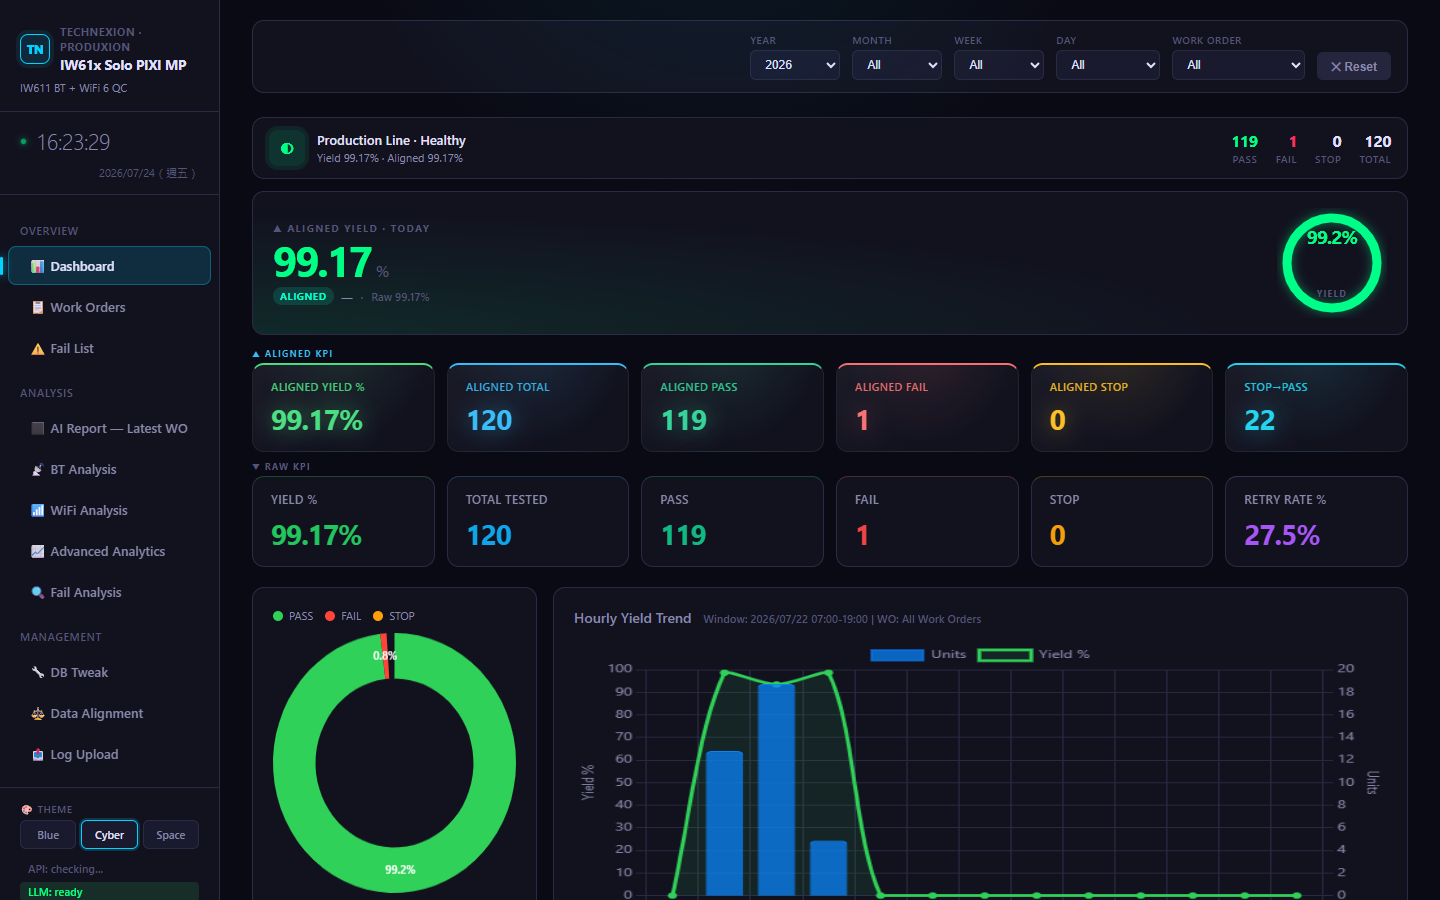
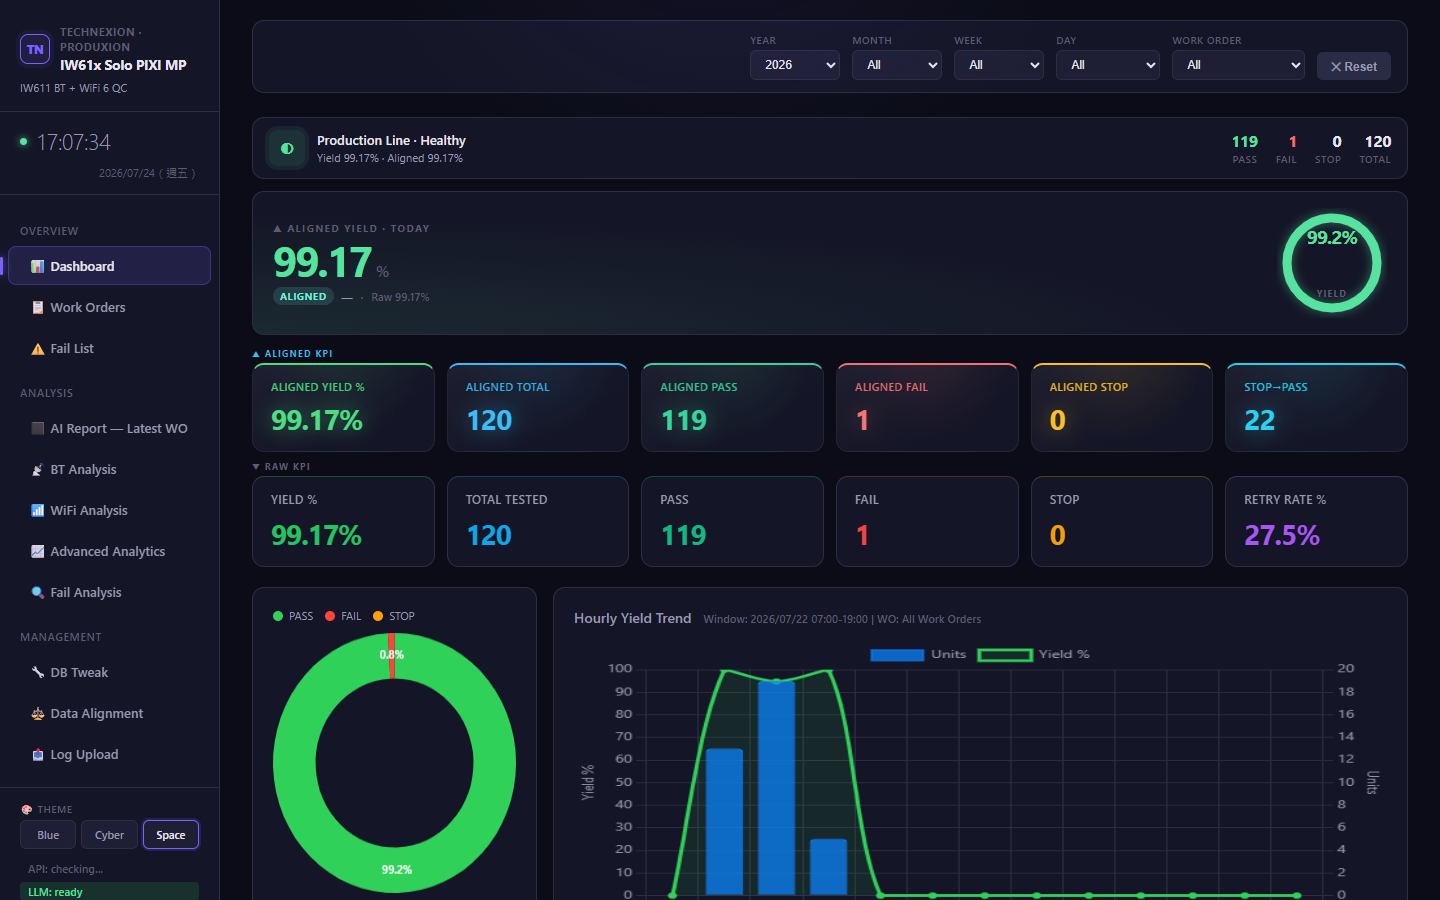
fix: make desktop uploader honor selected database
Initialize the schema through the GUI-selected PostgreSQL URL so first-time uploads to a fresh database succeed. Add desktop dependencies, regression coverage, and refreshed acceptance evidence.

diff --git a/iw-solo-pixi-essential/log_iw_uploader_app.py b/iw-solo-pixi-essential/log_iw_uploader_app.py
@@ -1,6 +1,5 @@
 from __future__ import annotations
 
-import os
 import sys
 from pathlib import Path
 
@@ -47,10 +46,8 @@ class UploadWorker(QThread):
         self.work_order = work_order or None
 
     def run(self):
-        old_url = os.environ.get("DATABASE_URL")
-        os.environ["DATABASE_URL"] = self.db_url
         try:
-            init_schema()
+            init_schema(self.db_url)
             conn = psycopg2.connect(self.db_url)
             try:
                 report = ingest_paths(self.paths, PostgresRunRepository(conn), self.work_order, source="gui")
@@ -60,11 +57,6 @@ class UploadWorker(QThread):
                 conn.close()
         except Exception as exc:
             self.failed.emit(str(exc))
-        finally:
-            if old_url is None:
-                os.environ.pop("DATABASE_URL", None)
-            else:
-                os.environ["DATABASE_URL"] = old_url
 
 
 class UploaderWindow(QMainWindow):

diff --git a/iw-solo-pixi-essential/tests/test_database_configuration.py b/iw-solo-pixi-essential/tests/test_database_configuration.py
@@ -1,0 +1,26 @@
+import sys
+import unittest
+from unittest.mock import MagicMock, patch
+
+sys.modules.setdefault("psycopg2", MagicMock())
+
+from api import db
+
+
+class DatabaseConfigurationTests(unittest.TestCase):
+    @patch("api.db.psycopg2.connect")
+    def test_schema_initialization_uses_the_selected_database_url(self, connect):
+        selected_url = "postgresql://pixi:pixipass@localhost:5434/selected_database"
+        connection = MagicMock()
+        connect.return_value = connection
+
+        db.init_schema(selected_url)
+
+        connect.assert_called_once_with(selected_url, connect_timeout=5)
+        connection.cursor.return_value.execute.assert_called_once()
+        connection.commit.assert_called_once()
+        connection.close.assert_called_once()
+
+
+if __name__ == "__main__":
+    unittest.main()

diff --git a/iw-solo-pixi-essential/api/db.py b/iw-solo-pixi-essential/api/db.py
@@ -10,12 +10,12 @@ DATABASE_URL = os.getenv(
 )
 
 
-def get_connection(timeout: int = 5):
+def get_connection(timeout: int = 5, database_url: str | None = None):
     """Get a new database connection."""
-    return psycopg2.connect(DATABASE_URL, connect_timeout=timeout)
+    return psycopg2.connect(database_url or DATABASE_URL, connect_timeout=timeout)
 
 
-def init_schema():
+def init_schema(database_url: str | None = None):
     """
     Initialize the database schema from schema.sql.
     Idempotent: safe to call on every startup.
@@ -41,7 +41,7 @@ def init_schema():
     with open(schema_path, "r", encoding="utf-8") as f:
         sql = f.read()
 
-    conn = get_connection()
+    conn = get_connection(database_url=database_url)
     try:
         cur = conn.cursor()
         cur.execute(sql)

diff --git a/iw-solo-pixi-essential/tests/test_project_contract.py b/iw-solo-pixi-essential/tests/test_project_contract.py
@@ -103,6 +103,14 @@ class ProjectContractTests(unittest.TestCase):
         ]:
             self.assertIn(f"CREATE TABLE IF NOT EXISTS {table}", schema)
 
+    def test_desktop_uploader_dependencies_are_installable(self):
+        requirements = (ROOT / "requirements-desktop.txt").read_text(encoding="utf-8")
+        readme = (ROOT / "README.md").read_text(encoding="utf-8")
+
+        self.assertIn("PyQt5", requirements)
+        self.assertIn("psycopg2-binary", requirements)
+        self.assertIn("pip install -r requirements-desktop.txt", readme)
+
 
 if __name__ == "__main__":
     unittest.main()

diff --git a/iw-solo-pixi-essential/ACCEPTANCE_REPORT.md b/iw-solo-pixi-essential/ACCEPTANCE_REPORT.md
@@ -42,6 +42,35 @@ Date: 2026-07-24
   - duplicates: 180
   - rejected: 0
 
+## Desktop GUI Uploader Verification
+
+- Application: `log_iw_uploader_app.py`
+- Window title: `IW Solo PIXI Log Uploader`
+- Runtime: Python 3.12, PyQt5 5.15.11, psycopg2-binary 2.9.12.
+- Reproducible dependencies are declared in `requirements-desktop.txt` and the
+  installation command is documented in `README.md`.
+- The GUI `Test Connection` action connected successfully to PostgreSQL on
+  port 5434.
+- A real PyQt event loop and `UploadWorker` processed all 180 files from
+  `rawlogs/5101-260715003/` against a newly created isolated database:
+  - first run: uploaded 180, duplicates 0, rejected 0, warnings 15;
+  - second run: uploaded 0, duplicates 180, rejected 0, warnings 0.
+- The GUI table showed 180 `uploaded` statuses on the first run and 180
+  `duplicate` statuses on the second run.
+- Isolated database verification:
+  - test results: 180;
+  - measurements: 196,661;
+  - data-quality issues: 15;
+  - PASS / FAIL / STOP: 121 / 13 / 46.
+- The production `pixi_test` database remained unchanged at 180 results and
+  196,661 measurements. Both isolated acceptance databases were removed after
+  verification.
+- Acceptance screenshot: `UPLOADER_ACCEPTANCE.png`.
+- A defect found during this verification was fixed: schema initialization now
+  uses the database URL selected in the GUI. Previously, a fresh custom
+  database could receive the upload connection while its schema was
+  incorrectly initialized in the default database.
+
 ## Database Verification
 
 ```text
@@ -139,7 +168,32 @@ Additional browser checks:
 - All 17 charts expose `role="img"` and a descriptive accessible name.
 - Legacy URL `/wifi-analysis.html` redirects to `/?page=wifi`.
 
+## Regression Revalidation
+
+- Full unit suite: 13 / 13 passed.
+- Python compile check: `api`, `ingestion`, `parsers`, uploader, and tests
+  passed `compileall`.
+- Parser dry run: 180 files, 196,661 measurements, no parse errors.
+- Docker Compose configuration validated and the current API image was rebuilt.
+- Post-rebuild services:
+  - API: healthy on port 8003;
+  - Nginx: serving and proxying health on port 8004;
+  - PostgreSQL: healthy on port 5434.
+- Post-rebuild API regression:
+  - health: 200, DB connected, 180 results;
+  - docs: 200;
+  - summary: 119 / 120 PASS, 99.17% yield, 180 attempts;
+  - data quality: 7 unknown-MAC attempts;
+  - local LLM status: connected.
+- Browser regression repeated after the uploader fix:
+  - all ten pages opened;
+  - Blue, Cyber, and Space themes switched correctly;
+  - `2026-07-21` filter returned 84 units and 100% yield;
+  - DB Tweak login returned page 1 / 4 with 50 rows and 180 total records;
+  - 320, 768, 1024, and 1440 pixel widths had no body overflow;
+  - console errors: 0;
+  - page errors: 0.
+
 ## Notes
 
 - IW416 remains out of scope for this release.
-- The workspace root is not a git repository, so no commit was created.

diff --git a/iw-solo-pixi-essential/README.md b/iw-solo-pixi-essential/README.md
@@ -35,6 +35,7 @@ Launch the standalone uploader after the Docker stack is running:
 
 ```powershell
 cd iw-solo-pixi-essential
+python -m pip install -r requirements-desktop.txt
 python log_iw_uploader_app.py
 ```
 
